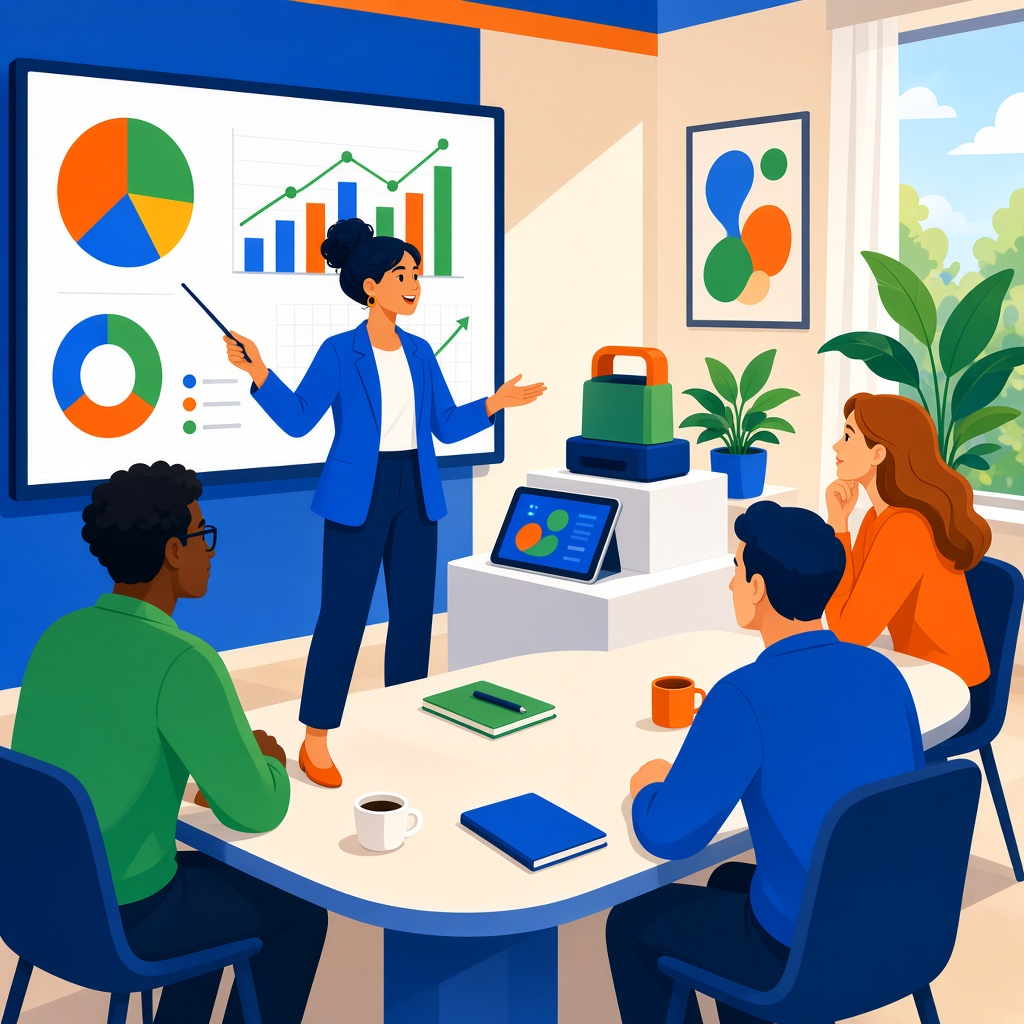
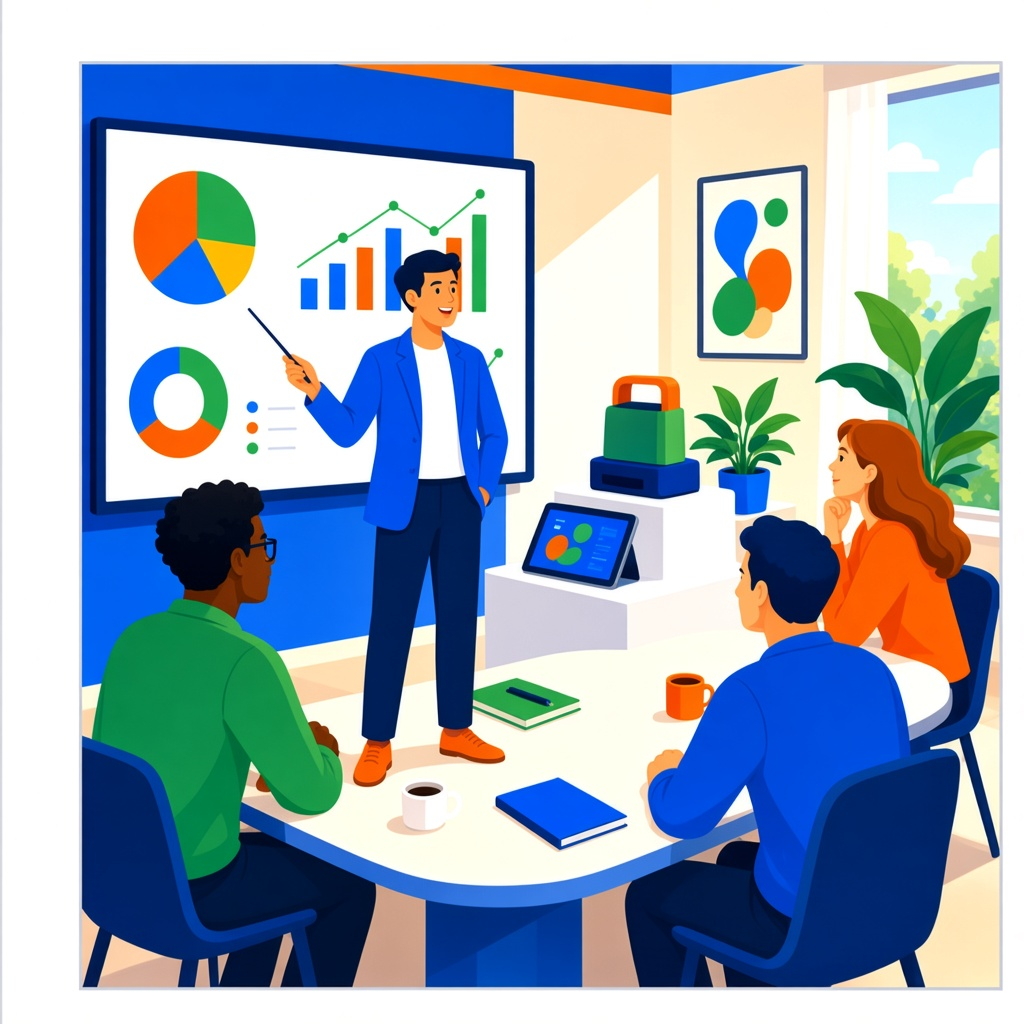
Update Soft Skills presentation illustration with male presenter (1.6.5).

diff --git a/privacidad.html b/privacidad.html
@@ -4,9 +4,9 @@
     <meta charset="utf-8" />
     <meta name="viewport" content="width=device-width, initial-scale=1" />
     <title>T·I·D·Ahub · Privacidad</title>
-    <link rel="stylesheet" href="./styles.css?v=1.6.4" />
+    <link rel="stylesheet" href="./styles.css?v=1.6.5" />
     <script>
-      window.MYWEB_ASSET_V = "1.6.4";
+      window.MYWEB_ASSET_V = "1.6.5";
     </script>
     <script>
       (function () {
@@ -35,7 +35,7 @@
           <div class="header-nav-buttons">
             <a
               class="home-btn header-home-btn privacy-header-back"
-              href="./index.html?v=1.6.4"
+              href="./index.html?v=1.6.5"
               aria-label="Volver a inicio"
               id="privacy-back-home"
             >← VOLVER</a>
@@ -212,8 +212,8 @@
       <div class="site-footer-inner">
         <div class="footer-meta">
           &copy; 2026-<span id="year-current">2026</span>&nbsp;| PhD.Eng. Francisco Carnero Rodríguez |
-          <span id="site-version">v1.6.4</span> |
-          <a href="./privacidad.html?v=1.6.4" class="footer-privacy-link">Privacidad y protección de datos</a>
+          <span id="site-version">v1.6.5</span> |
+          <a href="./privacidad.html?v=1.6.5" class="footer-privacy-link">Privacidad y protección de datos</a>
         </div>
       </div>
     </footer>
@@ -251,7 +251,7 @@
           applyMeta();
         }
         function loadData(bust, dataJsText) {
-          bust = String(bust || window.MYWEB_ASSET_V || "1.6.4");
+          bust = String(bust || window.MYWEB_ASSET_V || "1.6.5");
           window.MYWEB_ASSET_V = bust;
           if (typeof window.MYWEB_wireVersionedLinks === "function") {
             window.MYWEB_wireVersionedLinks(bust);
@@ -282,7 +282,7 @@
           start(d.version || window.MYWEB_ASSET_V, d.dataJsText || "");
         });
         setTimeout(function () {
-          start(window.MYWEB_ASSET_V || "1.6.4", window.__MYWEB_DATA_JS_TEXT__ || "");
+          start(window.MYWEB_ASSET_V || "1.6.5", window.__MYWEB_DATA_JS_TEXT__ || "");
         }, 2500);
 
         function isVerticallyScrollable(el) {

diff --git a/index.html b/index.html
@@ -4,9 +4,9 @@
     <meta charset="utf-8" />
     <meta name="viewport" content="width=device-width, initial-scale=1" />
     <title>T·I·D·Ahub</title>
-    <link rel="stylesheet" href="./styles.css?v=1.6.4" />
+    <link rel="stylesheet" href="./styles.css?v=1.6.5" />
     <script>
-      window.MYWEB_ASSET_V = "1.6.4";
+      window.MYWEB_ASSET_V = "1.6.5";
     </script>
     <script>
       (function () {
@@ -228,8 +228,8 @@
         </a>
         <div class="footer-meta">
           &copy; 2026-<span id="year-current">2026</span>&nbsp;| PhD.Eng. Francisco Carnero Rodríguez |
-          <span id="site-version">v1.6.4</span> |
-          <a href="./privacidad.html?v=1.6.4" class="footer-privacy-link">Privacidad y protección de datos</a>
+          <span id="site-version">v1.6.5</span> |
+          <a href="./privacidad.html?v=1.6.5" class="footer-privacy-link">Privacidad y protección de datos</a>
         </div>
       </div>
     </footer>
@@ -263,7 +263,7 @@
             });
         }
         function bootAssets(bust, dataJsText) {
-          bust = String(bust || window.MYWEB_ASSET_V || "1.6.4");
+          bust = String(bust || window.MYWEB_ASSET_V || "1.6.5");
           window.MYWEB_ASSET_V = bust;
           if (typeof window.MYWEB_wireVersionedLinks === "function") {
             window.MYWEB_wireVersionedLinks(bust);
@@ -294,7 +294,7 @@
         });
         // Si version-boot falla o tarda, no bloquear la web.
         setTimeout(function () {
-          start(window.MYWEB_ASSET_V || "1.6.4", window.__MYWEB_DATA_JS_TEXT__ || "");
+          start(window.MYWEB_ASSET_V || "1.6.5", window.__MYWEB_DATA_JS_TEXT__ || "");
         }, 2500);
       })();
     </script>

diff --git a/data.js b/data.js
@@ -18,7 +18,7 @@ window.MYWEB_DATA = {
     El pie muestra "v" + version al cargar.
   */
   siteMeta: {
-    version: "1.6.4",
+    version: "1.6.5",
     updated: "2026-11-02",
     /* Temporal: lazo negro (marca de agua) en INICIO. Pon false para quitarlo. */
     mourningRibbon: true,

diff --git a/versions.md b/versions.md
@@ -508,6 +508,10 @@ Cambios publicados en `main` tras 1.0 y consolidados conceptualmente en la líne
 
 - Soft Skills: nuevas ilustraciones más coloridas; títulos en mayúsculas; palabras clave de la intro en negrita.
 
+## 1.6.5
+
+- Soft Skills: en la ficha «Exposición de proyectos», el presentador de la ilustración pasa a ser un hombre (mismo estilo y escena).
+
 ---
 
 ## Convención (recordatorio)
@@ -637,3 +641,4 @@ Nota: **1.1.16** y **1.1.17** fueron bumps por contenido; **1.5.1** fue el últi
 | **1.6.2** | Miscelánea: icono visible tras recarga/historial |
 | **1.6.3** | Soft Skills: intro a ancho completo, Orbitron y brillo |
 | **1.6.4** | Soft Skills: ilustraciones coloridas, títulos MAYÚSCULAS, intro en negrita |
+| **1.6.5** | Soft Skills: presentador hombre en ficha de exposición |
